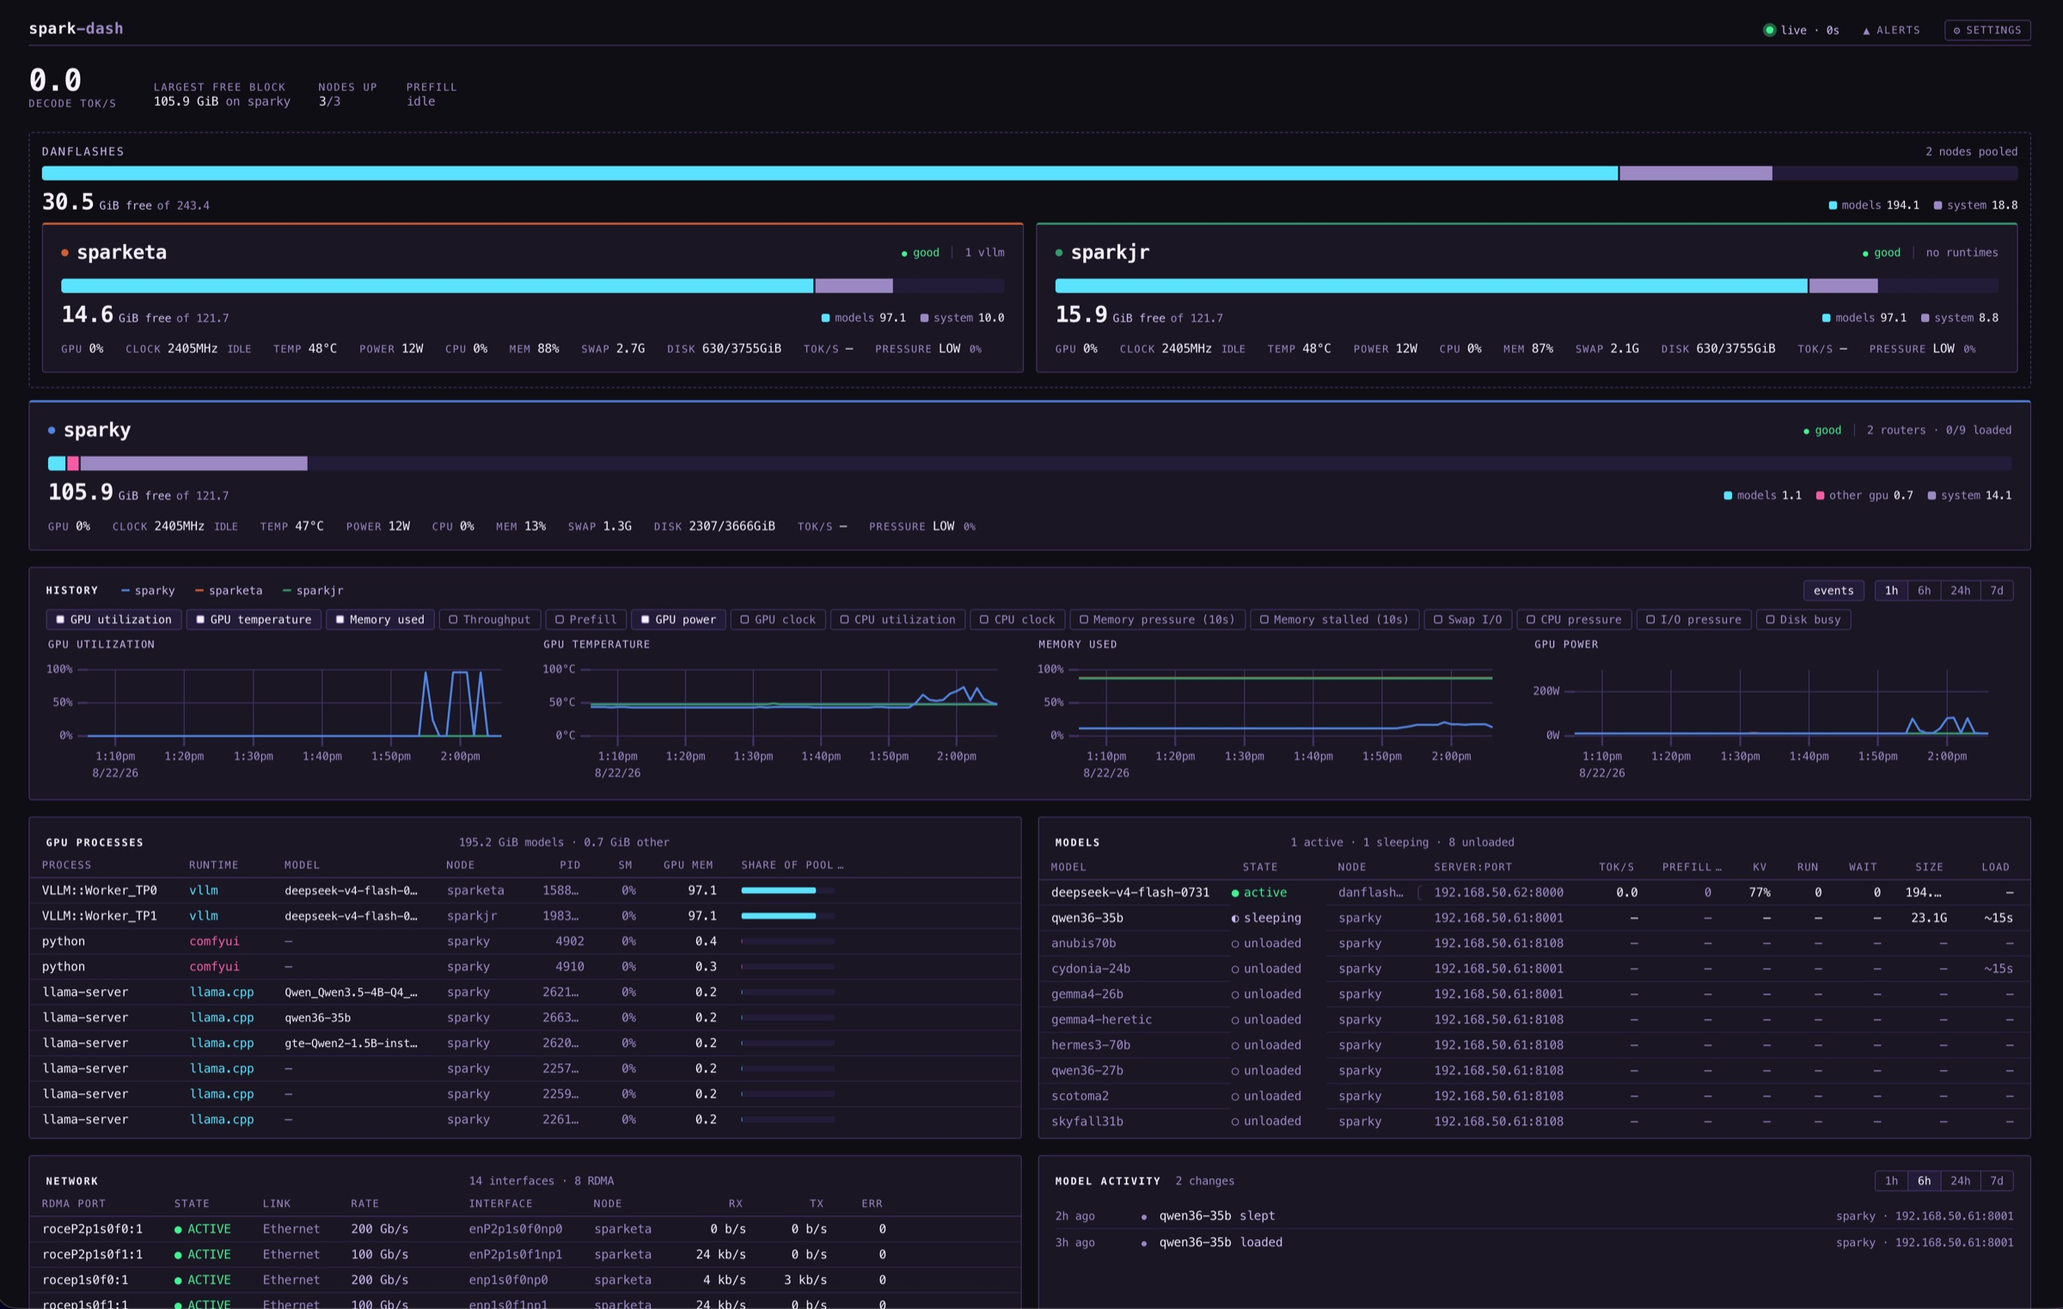
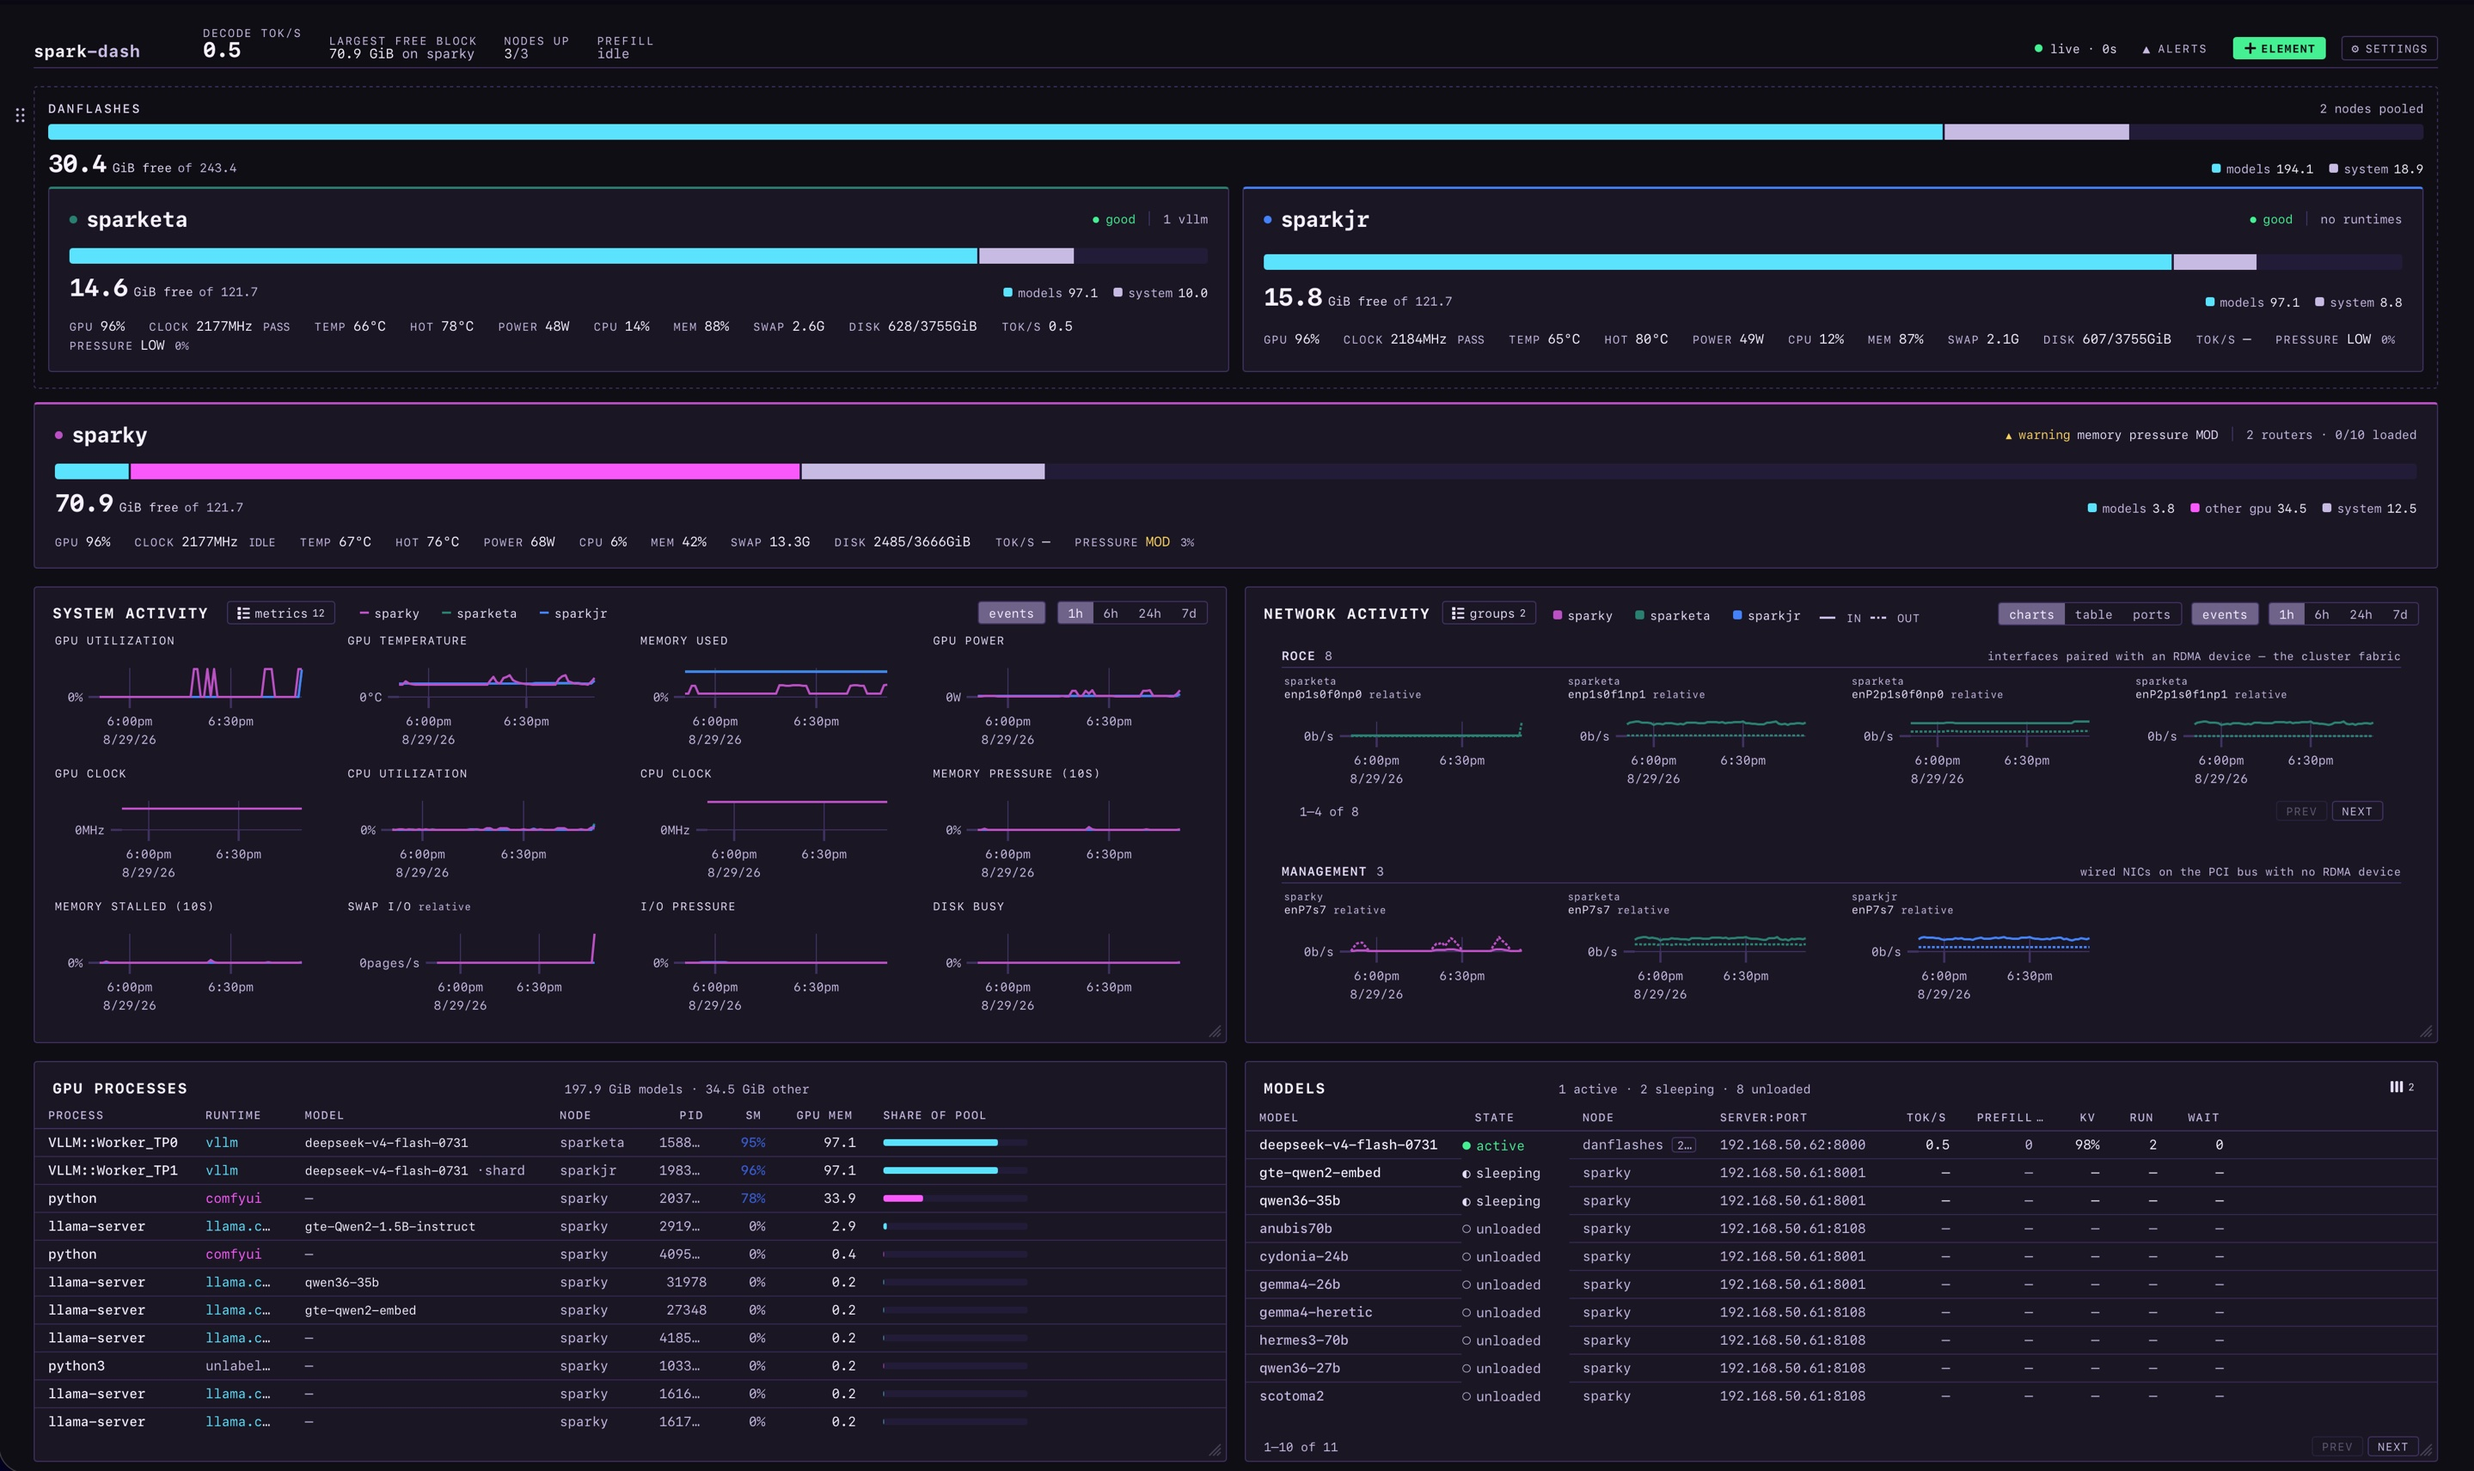
README screenshot: the page as it is now
Cyberpunk theme, the facts on the title line, twelve metrics charted,
RoCE and management fabric charted apart, the process and model tables.
Resized to 65% (2878x1712) and JPEG at quality 85, 767 KiB.

Claude-Session: https://claude.ai/code/session_01NLEP6zvNRCBx2YsAV8Q8JM

diff --git a/README.md b/README.md
@@ -7,7 +7,7 @@ them.
 
 Supports single node and clusters.
 
-![The spark-dash dashboard: a pooled two-node cluster and a standalone node, GPU/CPU/memory history, the GPU process table, and per-model throughput and state](Screenshot.jpg)
+![The spark-dash dashboard: a pooled two-node cluster and a standalone node under memory pressure, twelve system metrics charted per node, RoCE and management interfaces charted separately, the GPU process table, and per-model state](Screenshot.jpg)
 
 Three GB10s — two pooled into a tensor-parallel cluster, one standalone. Every
 threshold shown is measured for this hardware rather than guessed, and the page
